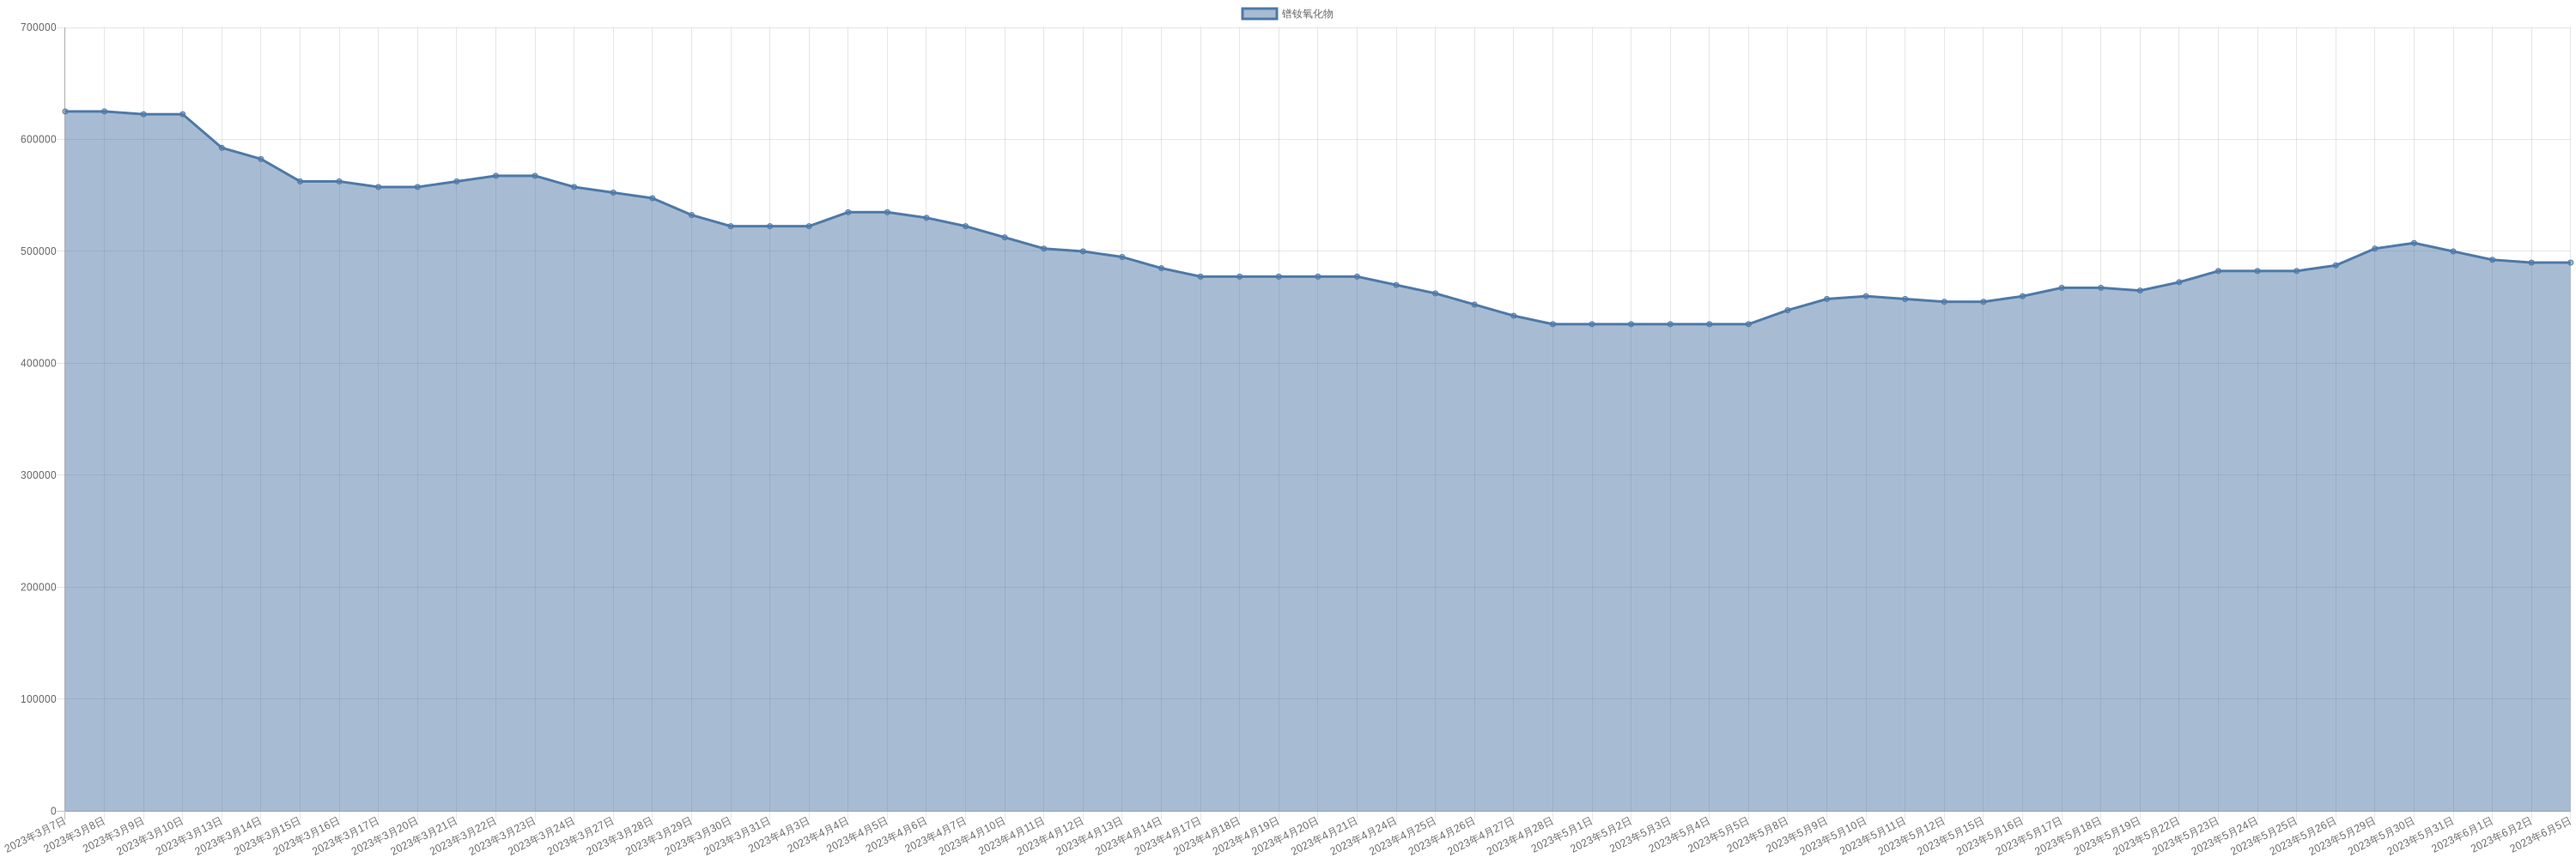
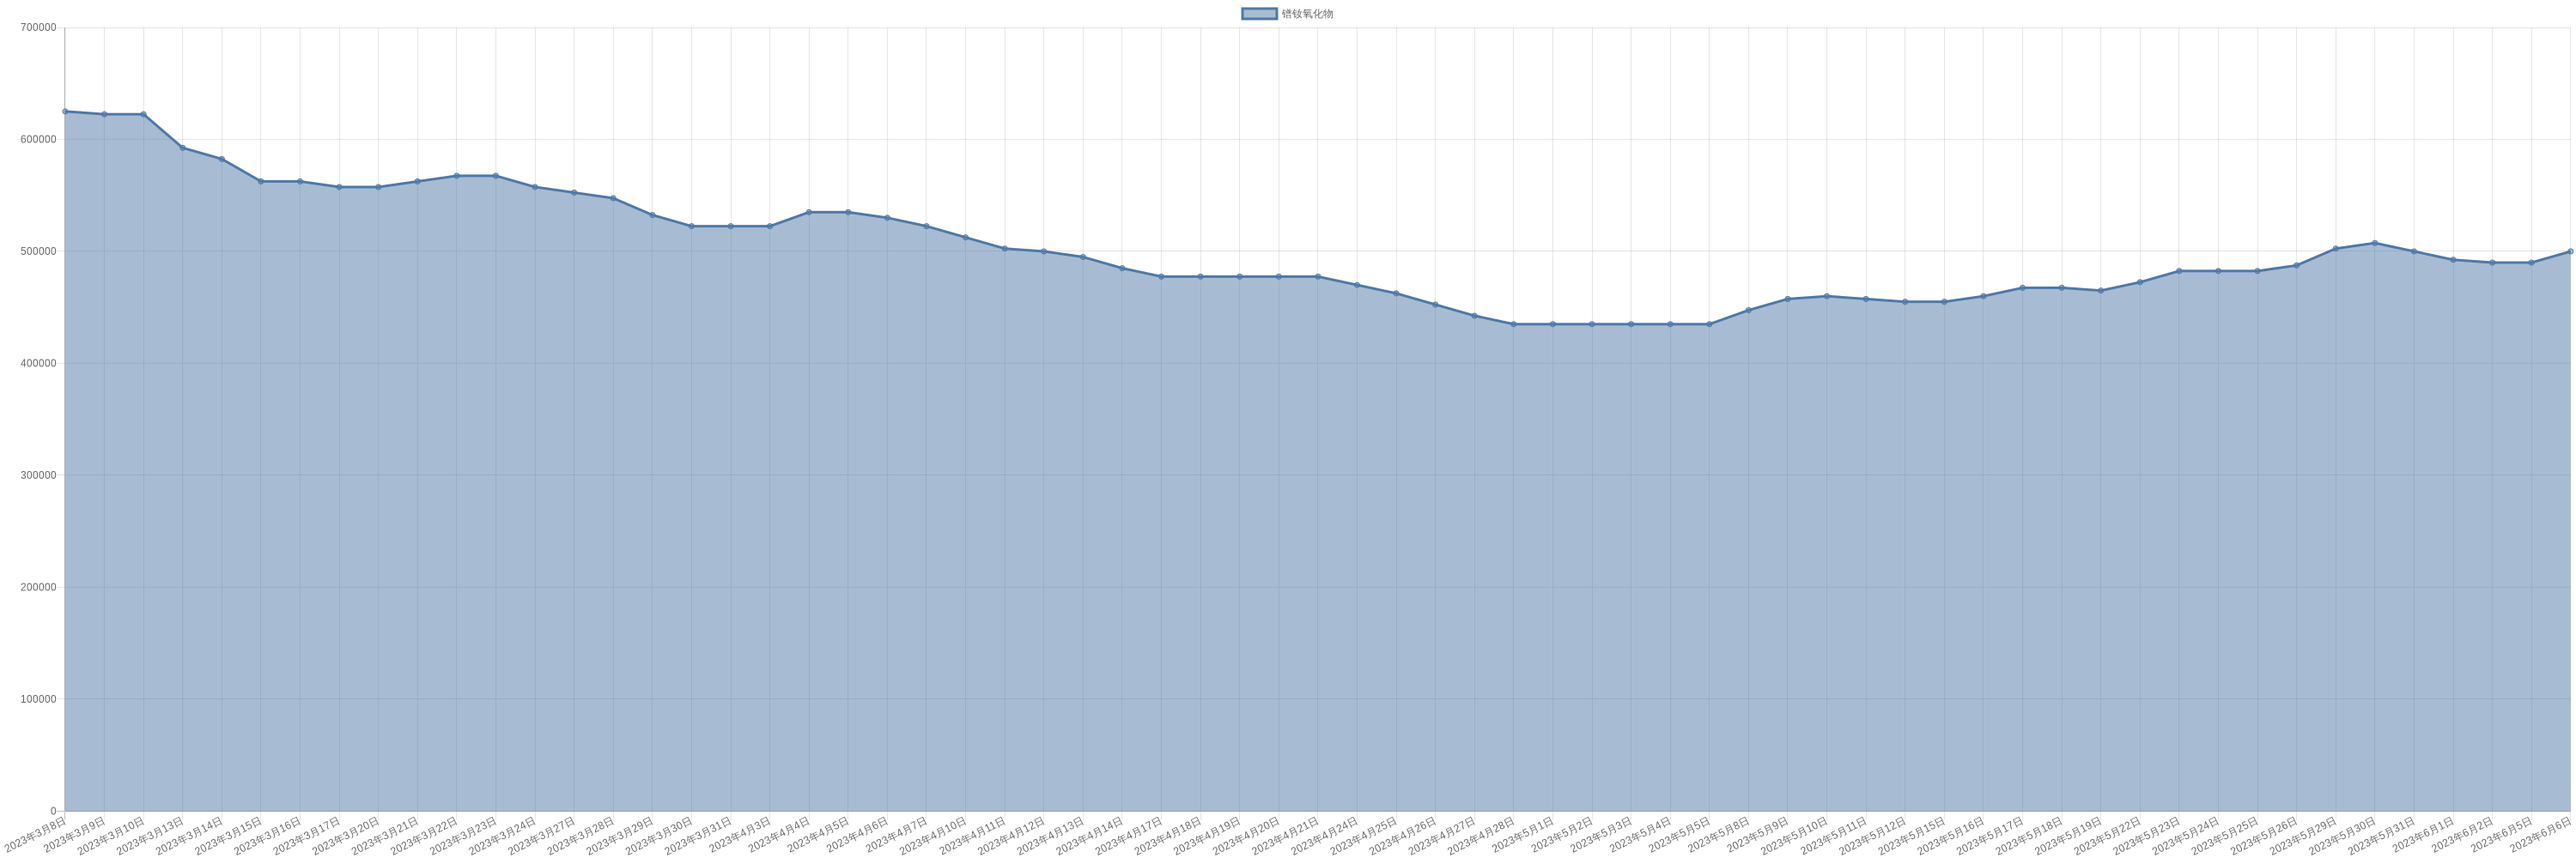
chore: sync commodity monitor

diff --git a/markdown/commodity/dyFeAlloy.md b/markdown/commodity/dyFeAlloy.md
@@ -8,6 +8,8 @@
 
 | 时间 | 价格 | 消息正文 |
 |:--:|:--:|:--:|
+|2023年6月6日|2060000|6月6日镝铁合金为2060000.00|
+|2023年6月5日|2050000|6月5日镝铁合金为2050000.00|
 |2023年6月2日|2050000|6月2日镝铁合金为2050000.00|
 |2023年6月1日|2070000|6月1日镝铁合金为2070000.00|
 |2023年5月31日|2070000|5月31日镝铁合金为2070000.00|

diff --git a/markdown/commodity/lithiumHydroxide.md b/markdown/commodity/lithiumHydroxide.md
@@ -8,6 +8,8 @@
 
 | 时间 | 价格 | 消息正文 |
 |:--:|:--:|:--:|
+|2023年6月6日|331250|6月6日氢氧化锂为331250.00|
+|2023年6月5日|326250|6月5日氢氧化锂为326250.00|
 |2023年6月2日|326250|6月2日氢氧化锂为326250.00|
 |2023年6月1日|326250|6月1日氢氧化锂为326250.00|
 |2023年5月31日|305000|5月31日氢氧化锂为305000.00|

diff --git a/markdown/commodity/praseodymiumNeodymiumAlloy.md b/markdown/commodity/praseodymiumNeodymiumAlloy.md
@@ -8,6 +8,8 @@
 
 | 时间 | 价格 | 消息正文 |
 |:--:|:--:|:--:|
+|2023年6月6日|602500|6月6日镨钕合金为602500.00|
+|2023年6月5日|600000|6月5日镨钕合金为600000.00|
 |2023年6月2日|600000|6月2日镨钕合金为600000.00|
 |2023年6月1日|605000|6月1日镨钕合金为605000.00|
 |2023年5月31日|610000|5月31日镨钕合金为610000.00|

diff --git a/markdown/commodity/liquefiedNaturalGas.md b/markdown/commodity/liquefiedNaturalGas.md
@@ -8,6 +8,8 @@
 
 | 时间 | 价格 | 消息正文 |
 |:--:|:--:|:--:|
+|2023年6月6日|3522|6月6日液化天然气为3522.00|
+|2023年6月5日|3520|6月5日液化天然气为3520.00|
 |2023年6月2日|3684|6月2日液化天然气为3684.00|
 |2023年6月1日|3750|6月1日液化天然气为3750.00|
 |2023年5月31日|3760|5月31日液化天然气为3760.00|

diff --git a/markdown/commodity/crudeOil.md b/markdown/commodity/crudeOil.md
@@ -2,6 +2,8 @@
 
 | 时间 | 价格 | 消息正文 |
 |:--:|:--:|:--:|
+|2023年6月6日WTI|72.15|6月6日WTI原油为72.15|
+|2023年6月6日Brent|76.71|6月6日Brent原油为76.71|
 |2023年6月5日WTI|71.74|6月5日WTI原油为71.74|
 |2023年6月5日Brent|76.13|6月5日Brent原油为76.13|
 |2023年6月2日Brent|74.28|6月2日Brent原油为74.28|

diff --git a/markdown/commodity/neodymium.md b/markdown/commodity/neodymium.md
@@ -8,6 +8,8 @@
 
 | 时间 | 价格 | 消息正文 |
 |:--:|:--:|:--:|
+|2023年6月6日|635000|6月6日金属钕为635000.00|
+|2023年6月5日|630000|6月5日金属钕为630000.00|
 |2023年6月2日|630000|6月2日金属钕为630000.00|
 |2023年6月1日|640000|6月1日金属钕为640000.00|
 |2023年5月31日|640000|5月31日金属钕为640000.00|

diff --git a/markdown/commodity/neodymiumOxide.md b/markdown/commodity/neodymiumOxide.md
@@ -8,6 +8,8 @@
 
 | 时间 | 价格 | 消息正文 |
 |:--:|:--:|:--:|
+|2023年6月6日|505000|6月6日氧化钕为505000.00|
+|2023年6月5日|500000|6月5日氧化钕为500000.00|
 |2023年6月2日|500000|6月2日氧化钕为500000.00|
 |2023年6月1日|505000|6月1日氧化钕为505000.00|
 |2023年5月31日|510000|5月31日氧化钕为510000.00|

diff --git a/markdown/commodity/praseodymium.md b/markdown/commodity/praseodymium.md
@@ -8,6 +8,8 @@
 
 | 时间 | 价格 | 消息正文 |
 |:--:|:--:|:--:|
+|2023年6月6日|635000|6月6日金属镨为635000.00|
+|2023年6月5日|635000|6月5日金属镨为635000.00|
 |2023年6月2日|635000|6月2日金属镨为635000.00|
 |2023年6月1日|635000|6月1日金属镨为635000.00|
 |2023年5月31日|635000|5月31日金属镨为635000.00|

diff --git a/markdown/commodity/praseodymiumOxide.md b/markdown/commodity/praseodymiumOxide.md
@@ -8,6 +8,8 @@
 
 | 时间 | 价格 | 消息正文 |
 |:--:|:--:|:--:|
+|2023年6月6日|515000|6月6日氧化镨为515000.00|
+|2023年6月5日|515000|6月5日氧化镨为515000.00|
 |2023年6月2日|515000|6月2日氧化镨为515000.00|
 |2023年6月1日|515000|6月1日氧化镨为515000.00|
 |2023年5月31日|515000|5月31日氧化镨为515000.00|

diff --git a/markdown/commodity/praseodymiumNeodymiumOxide.md b/markdown/commodity/praseodymiumNeodymiumOxide.md
@@ -8,6 +8,7 @@
 
 | 时间 | 价格 | 消息正文 |
 |:--:|:--:|:--:|
+|2023年6月6日|500000|6月6日镨钕氧化物为500000.00|
 |2023年6月5日|490000|6月5日镨钕氧化物为490000.00|
 |2023年6月2日|490000|6月2日镨钕氧化物为490000.00|
 |2023年6月1日|492500|6月1日镨钕氧化物为492500.00|

diff --git a/markdown/commodity/dysprosiumMetal.md b/markdown/commodity/dysprosiumMetal.md
@@ -8,6 +8,7 @@
 
 | 时间 | 价格 | 消息正文 |
 |:--:|:--:|:--:|
+|2023年6月6日|2680000|6月6日金属镝为2680000.00|
 |2023年6月5日|2680000|6月5日金属镝为2680000.00|
 |2023年6月2日|2680000|6月2日金属镝为2680000.00|
 |2023年6月1日|2680000|6月1日金属镝为2680000.00|

diff --git a/markdown/commodity/dysprosiumOxide.md b/markdown/commodity/dysprosiumOxide.md
@@ -8,6 +8,7 @@
 
 | 时间 | 价格 | 消息正文 |
 |:--:|:--:|:--:|
+|2023年6月6日|2090000|6月6日氧化镝为2090000.00|
 |2023年6月5日|2080000|6月5日氧化镝为2080000.00|
 |2023年6月2日|2080000|6月2日氧化镝为2080000.00|
 |2023年6月1日|2105000|6月1日氧化镝为2105000.00|
